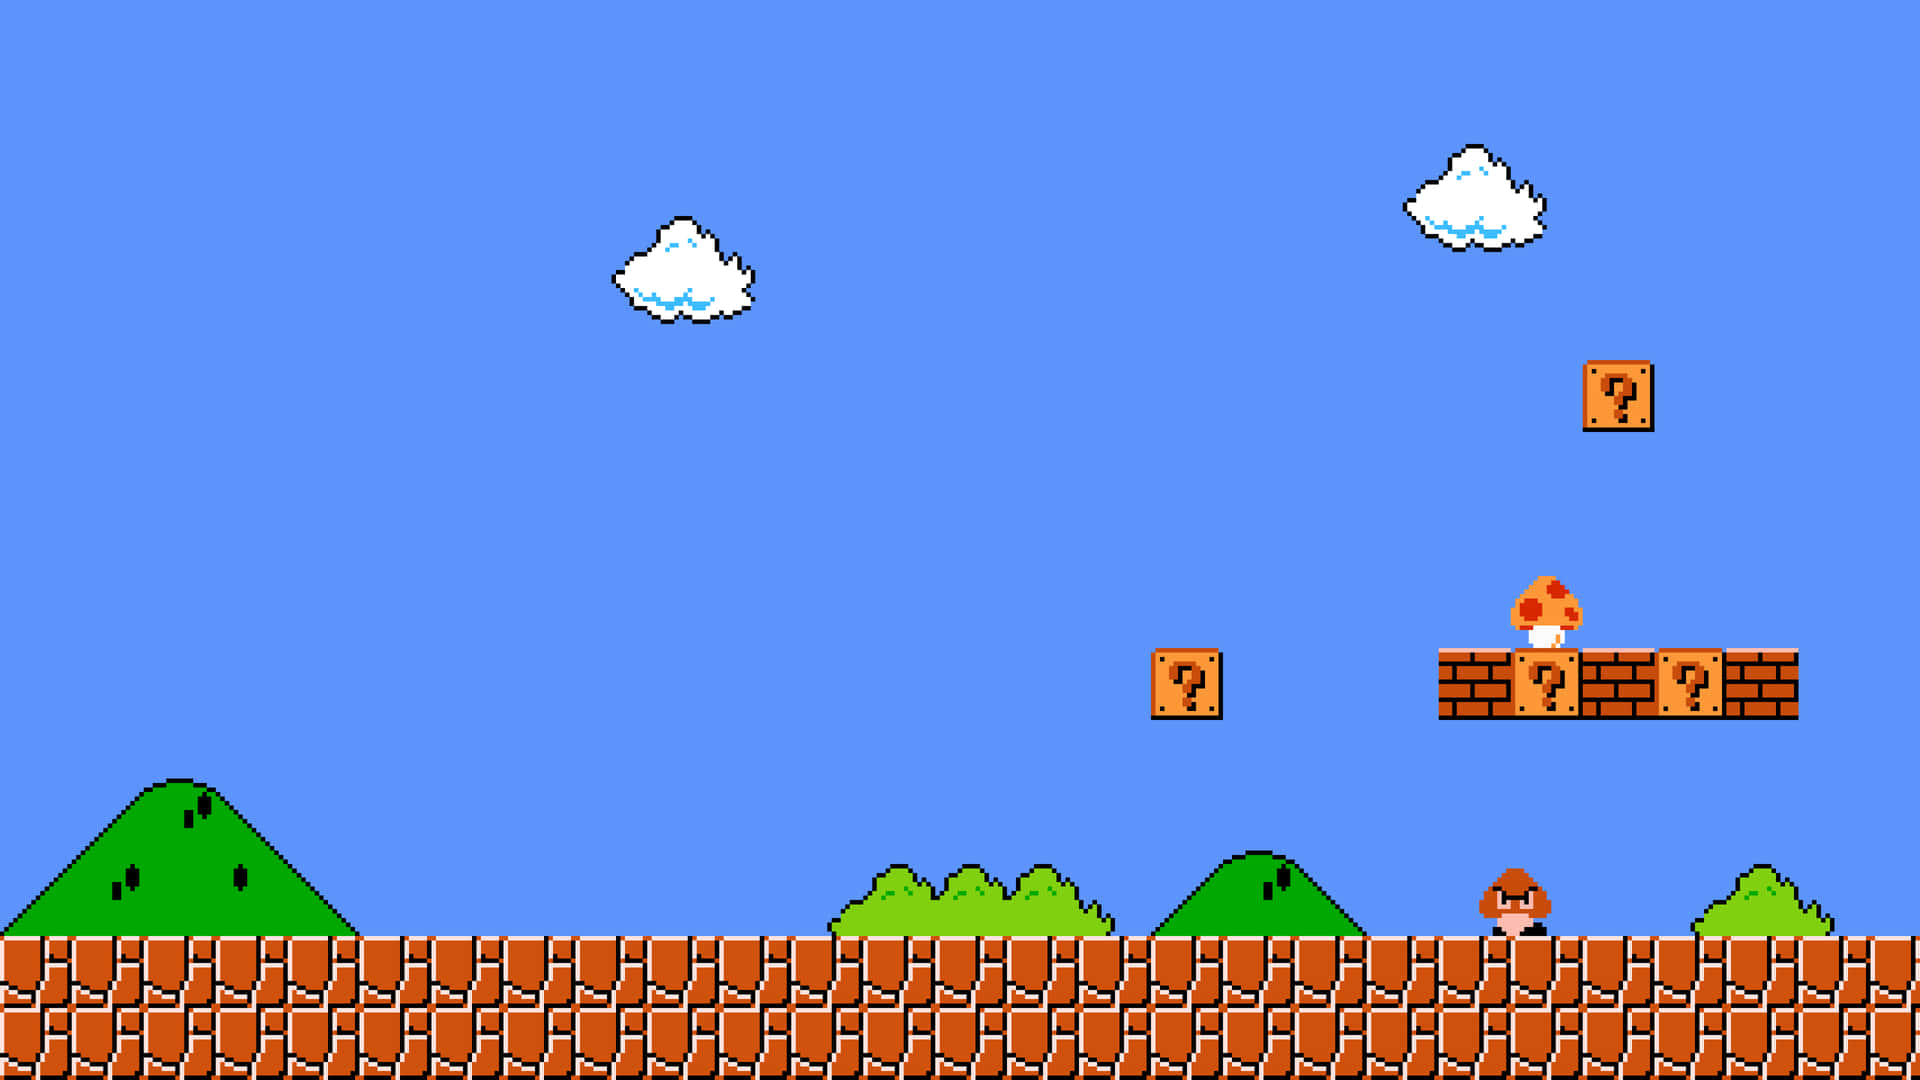
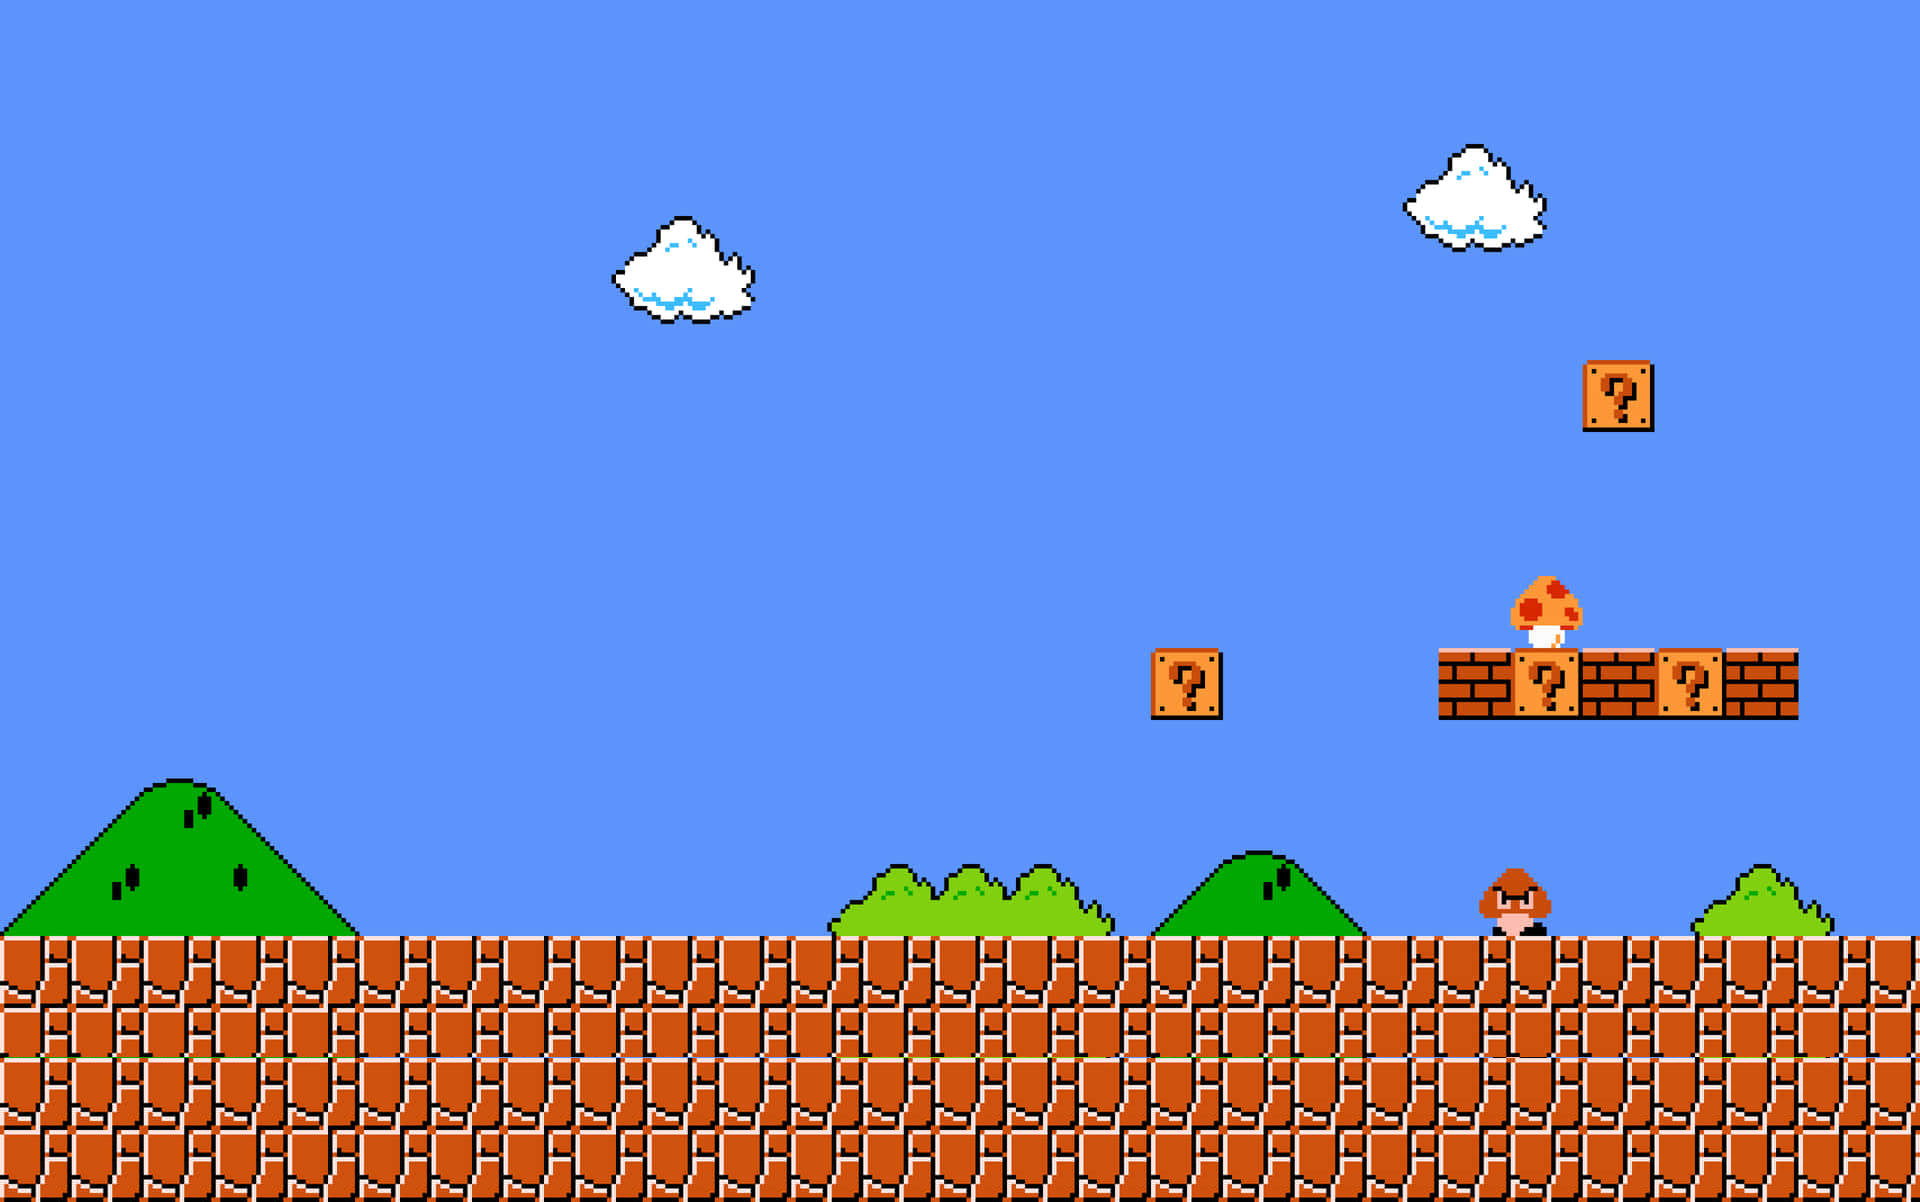
code

diff --git a/projects/runtime/js/runLevels.js b/projects/runtime/js/runLevels.js
@@ -22,27 +22,29 @@ var runLevels = function (window) {
     //creates the saw blades in the game
    function createSawBlade(x, y, damage){
     var hitZoneSize = 25;
-    var damageFromObstacle = 10;
+    var damageFromObstacle = 15;
     var sawBladeHitZone = game.createObstacle(hitZoneSize, damageFromObstacle);
     sawBladeHitZone.x = x;
     sawBladeHitZone.y = y;
     game.addGameItem(sawBladeHitZone);
-    var obstacleImage = draw.bitmap("img/sawblade.png");
+    var obstacleImage = draw.bitmap("img/BombshellParatroopa.png");
     sawBladeHitZone.addChild(obstacleImage);
     obstacleImage.x = -25;
     obstacleImage.y = -25;
     
+      
    }
     
 //creates Enemy
-    function createEnemy(x, y){
-      var enemy = game.createGameItem("enemy", 25);
+    function createEnemy(x, y, damage){
+      var enemy = game.createGameItem("enemy", 25, damageFromObstacle);
       var blueSquare = draw.bitmap('img/King_Bowser.webp');
+      var damageFromObstacle = 60;
       blueSquare.x = -100;
-      blueSquare.y = -100;
+      blueSquare.y = -125;
       enemy.addChild(blueSquare);
-      enemy.x = 700; 
-      enemy.y = groundY - 50;
+      enemy.x = 6000; 
+      enemy.y = groundY - 63;
       game.addGameItem(enemy);
       enemy.velocityX = -3;
       
@@ -56,24 +58,49 @@ var runLevels = function (window) {
       
         
         }
-        createEnemy(200, groundY - 50);
+
+
+        function createEnemyTwo(x, y){
+          var enemyTwo = game.createGameItem("enemyTwo", 25, damageFromObstacle);
+          var blueSquare = draw.bitmap('img/Goomba.png');
+          var damageFromObstacle = 25;
+          blueSquare.x = -30;
+          blueSquare.y = -18;
+          enemyTwo.addChild(blueSquare);
+          enemyTwo.x = 1000; 
+          enemyTwo.y = groundY - 40;
+          game.addGameItem(enemyTwo);
+          enemyTwo.velocityX = -3;
+          
+          enemyTwo.onPlayerCollision = function () {
+            game.changeIntegrity(-10)
+          };
+          //score any enemy dying
+            enemyTwo.onProjectileCollision = function(){  
+            enemyTwo.flyTo(0, 0);
+            };
+          
+            
+            }
 
     function createReward(x, y){
     var reward = game.createGameItem("reward", 25);
-    var yellowSquare = draw.rect(50, 50, "yellow");
-    yellowSquare.x = -25;
-    yellowSquare.y = -25;
+    var yellowSquare = draw.bitmap('img/mario star reward.png');
+    yellowSquare.x = -37;
+    yellowSquare.y = -40;
     reward.addChild(yellowSquare);
-    reward.x = 400;
-    reward.y = groundY - 50;
+    reward.x = 1500;
+    reward.y = groundY - 80;
     game.addGameItem(reward);
     reward.velocityX = -3;
 
     reward.onPlayerCollision = function () {
-      game.changeIntegrity(-10)
+      game.changeIntegrity(20)
       game.increaseScore(50);
       reward.shrink()
     };
+
+
     //score any reward dying
       reward.onProjectileCollision = function(){  
 
@@ -84,12 +111,12 @@ var runLevels = function (window) {
       }
       //creates my marker
       function createMarker(x, y){
-        var marker = game.createGameItem("enemy", 25);
-        var blueSquare = draw.rect(50,50,'blue');
-        blueSquare.x = -25;
-        blueSquare.y = -25;
+        var marker = game.createGameItem("marker", 25);
+        var blueSquare = draw.bitmap('img/flag reward.png');
+        blueSquare.x = -400;
+        blueSquare.y = -660;
         marker.addChild(blueSquare);
-        marker.x = x; 
+        marker.x = 4000; 
         marker.y = y;
         game.addGameItem(marker);
         marker.velocityX = -1;
@@ -104,8 +131,7 @@ var runLevels = function (window) {
       
       
       //function calls   
-      createMarker(950, groundY - 50);
-      createReward(1000, groundY - 100);
+     
   
 
     function startLevel() { 
@@ -121,7 +147,13 @@ var runLevels = function (window) {
           createReward(element.x, element.y);
         }
         if(element.type === 'enemy'){
-          createEnemy(elemnet.x, element.y);
+          createEnemy(element.x, element.y);
+        }
+        if(element.type === 'marker'){
+          createMarker(element.x, element.y);
+        }
+        if(element.type === 'enemyTwo'){
+          createEnemyTwo(element.x, element.y);
         }
       }
 

diff --git a/projects/runtime/js/view/background.js b/projects/runtime/js/view/background.js
@@ -40,10 +40,15 @@ var background = function (window) {
             // this currently fills the background with an obnoxious yellow;
             // you should modify both the height and color to suit your game
             var backgroundFill = draw.bitmap('img/background.png');
+            backgroundFill.x = 0;
+            backgroundFill.y = 0;
+            backgroundFill.scaleX = 1;
+            backgroundFill.scaleY = 0.85;
             background.addChild(backgroundFill);
             
             // TODO 2: - Add a moon and starfield
 
+                // creates the stars
             for(var stars = 0 ; stars < 100; stars++){
                 var circle = draw.circle(1, "white", "LightGray", 2);
                 circle.x = canvasWidth * Math.random();
@@ -51,32 +56,34 @@ var background = function (window) {
                 background.addChild(circle);          
             }
 
-
+            //creates the moon
             var moon = draw.bitmap("img/moon.png");
             moon.x = canvasWidth - 500;
             moon.y = canvasHeight - 920;
             moon.scaleX = .9;
             moon.scaleY = .9;
             background.addChild(moon);
-            
+         
+            //creates tree
+
 
             var buildingColors = ['red', 'blue'];
             // TODO 4: Part 1 - Add buildings!     Q: This is before TODO 4 for a reason! Why?
             for (var i = 0; i < 5; ++i) {
-                var buildingHeight = 300 * Math.random();
-                var building = draw.rect(75, buildingHeight, buildingColors[Math.floor(Math.random()*buildingColors.length)], "black", 3);
+                var buildingHeight = 200;
+                var building = draw.bitmap('img/buildings.png');
                 building.x = 200 * i;
                 building.y = groundY - buildingHeight;
                 background.addChild(building);
                 buildings.push(building);
               }
             
+              tree = draw.bitmap("img/Tree.png");
+              tree.x = canvasWidth - 250;
+              tree.y = groundY - 300;
+              background.addChild(tree);
             // TODO 3: Part 1 - Add a tree
-            tree = draw.bitmap("img/tree.png");
-            tree.x = canvasWidth - 250;
-            tree.y = groundY - 200;
-            background.addChild(tree);
-            
+          
         } // end of render function - DO NOT DELETE
         
         

diff --git a/projects/runtime/js/levelData.js b/projects/runtime/js/levelData.js
@@ -21,6 +21,7 @@ var makeLevelData = function (window) {
           { type: "enemy", x: 200, y: groundY - 50},
           { type: "reward", x: 1000, y: groundY - 100},
           { type: "marker", x: 950, y: groundY - 50},
+          { type: "enemyTwo", x: 300, y: groundY - 50},
         ],
       },
       {

diff --git a/projects/runtime/js/view/ground.js b/projects/runtime/js/view/ground.js
@@ -14,7 +14,7 @@
         render();
         
         app.addResizeable(ground);
-        ground.y = (canvas.height - ground.getBounds().height) / 2;
+        ground.y = (canvas.height - ground.getBounds().height) / 1.2;
         app.view.addChild(ground);
         
         function render() {
